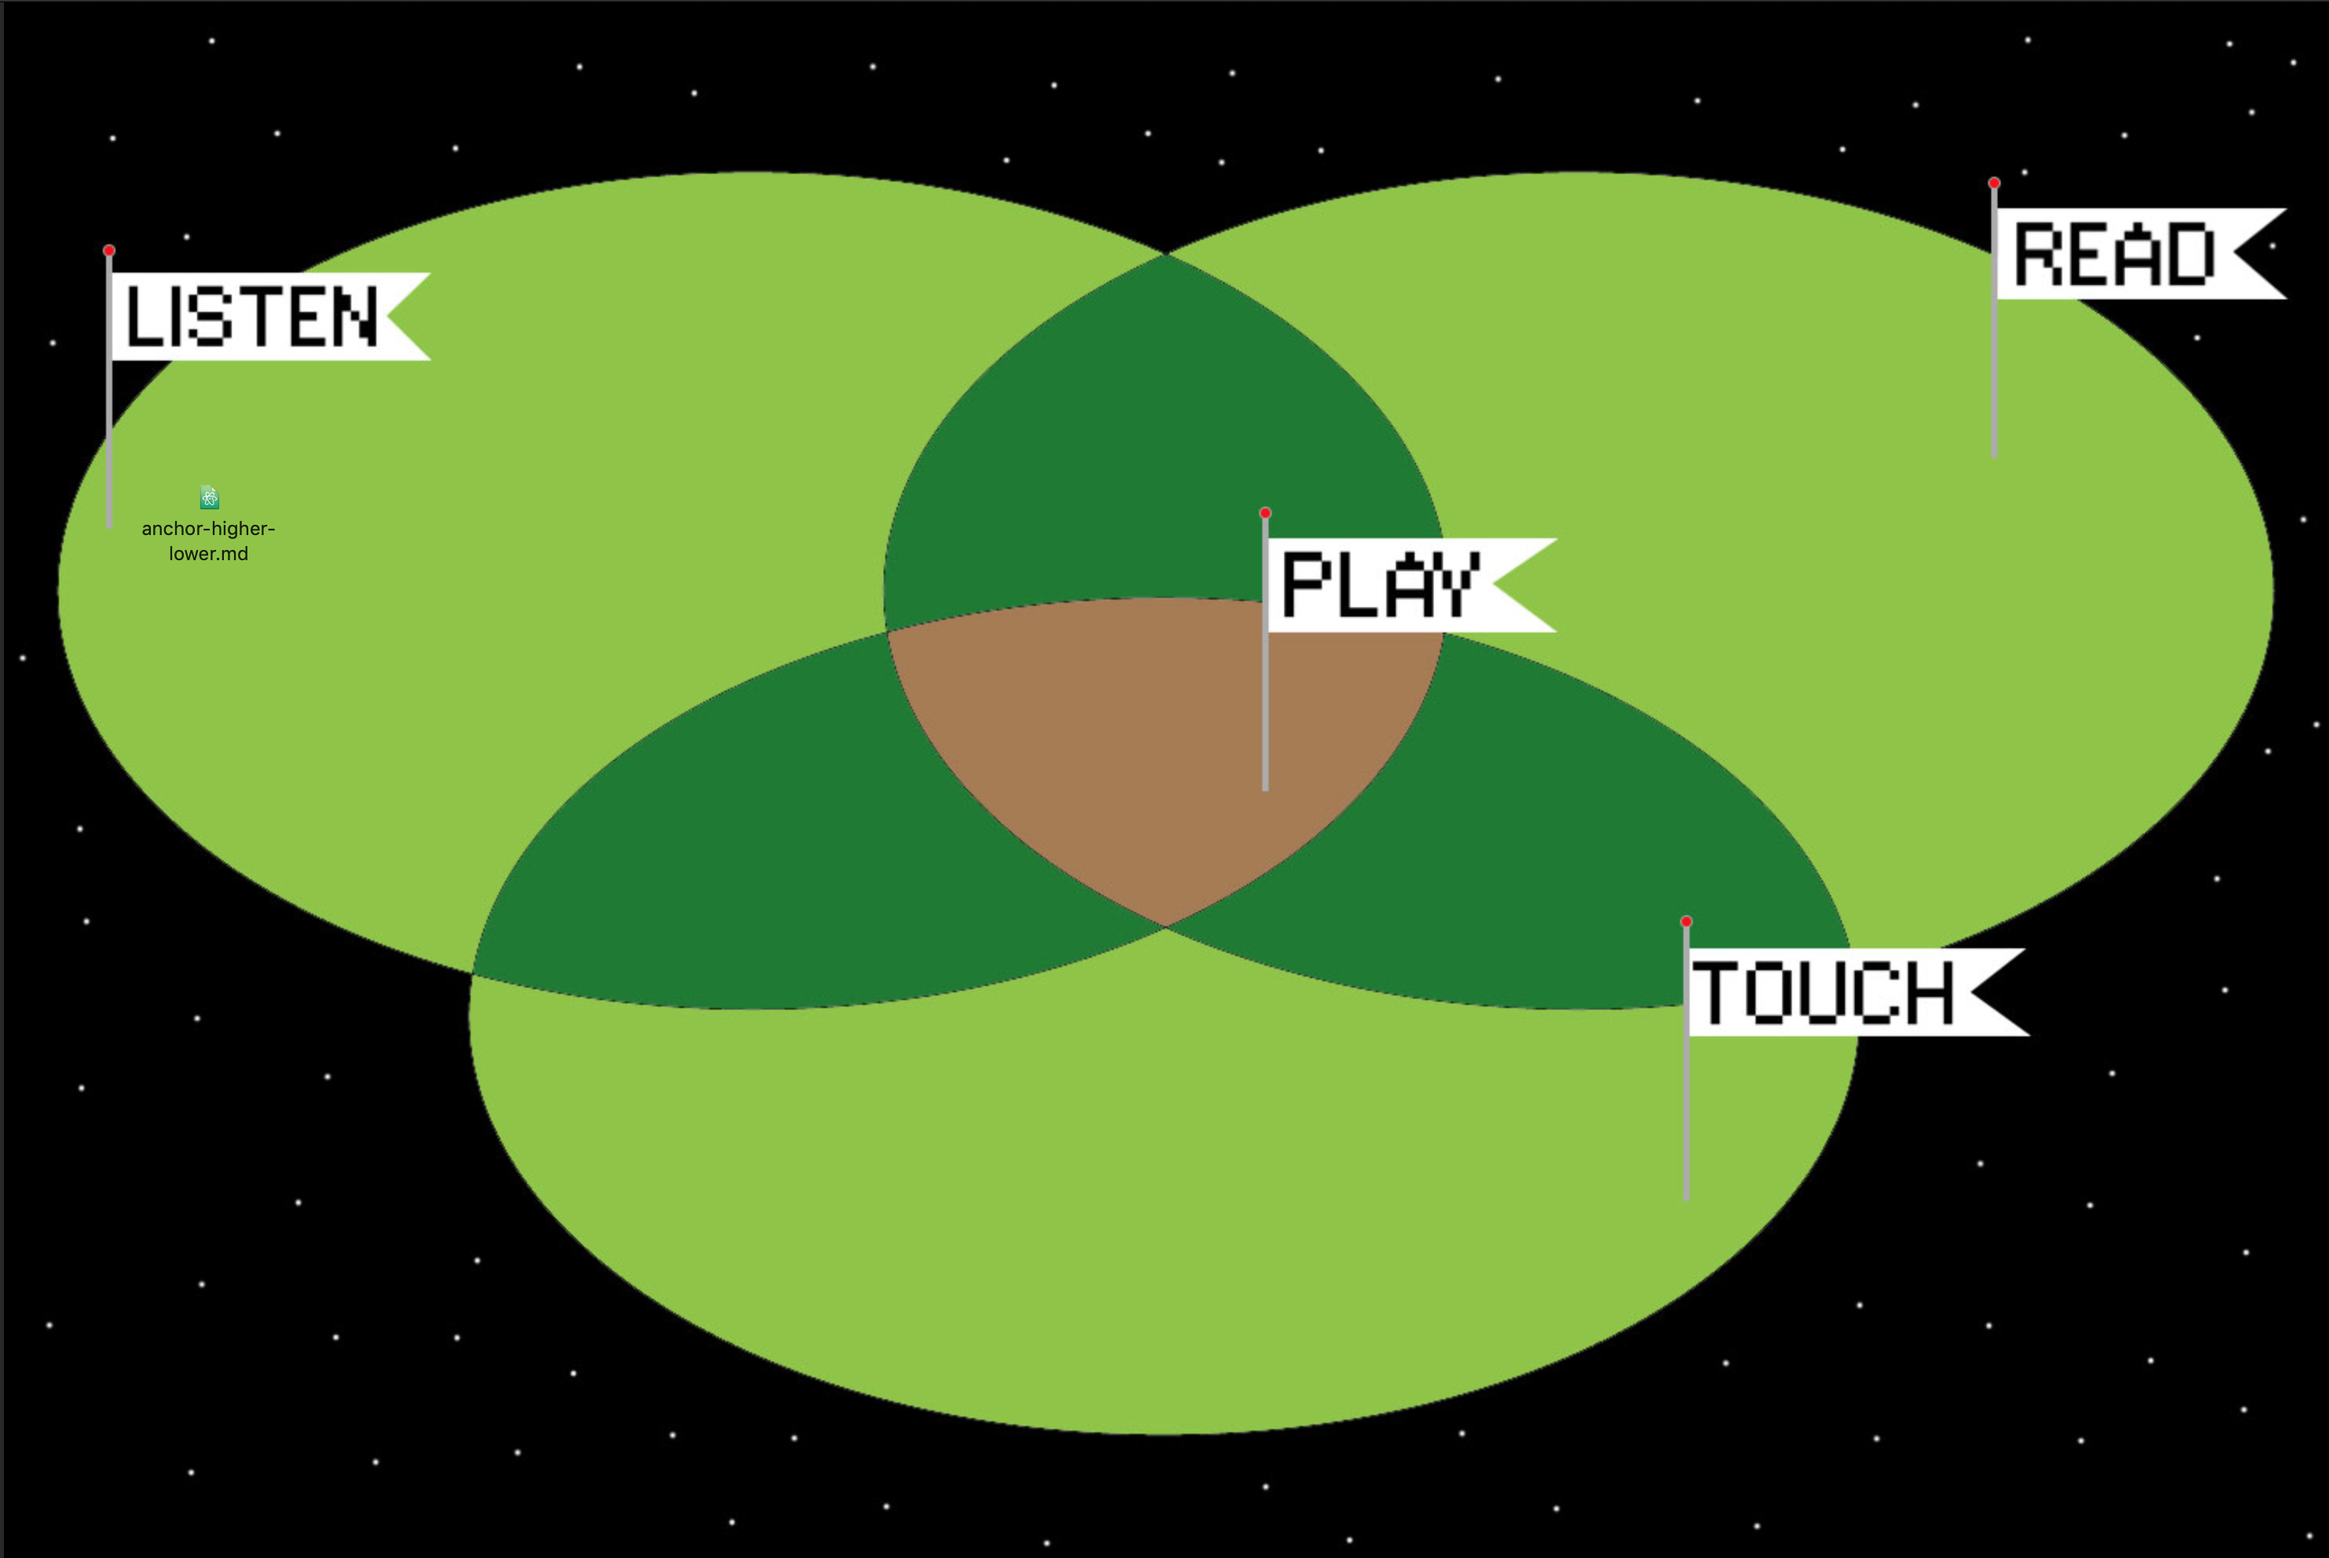
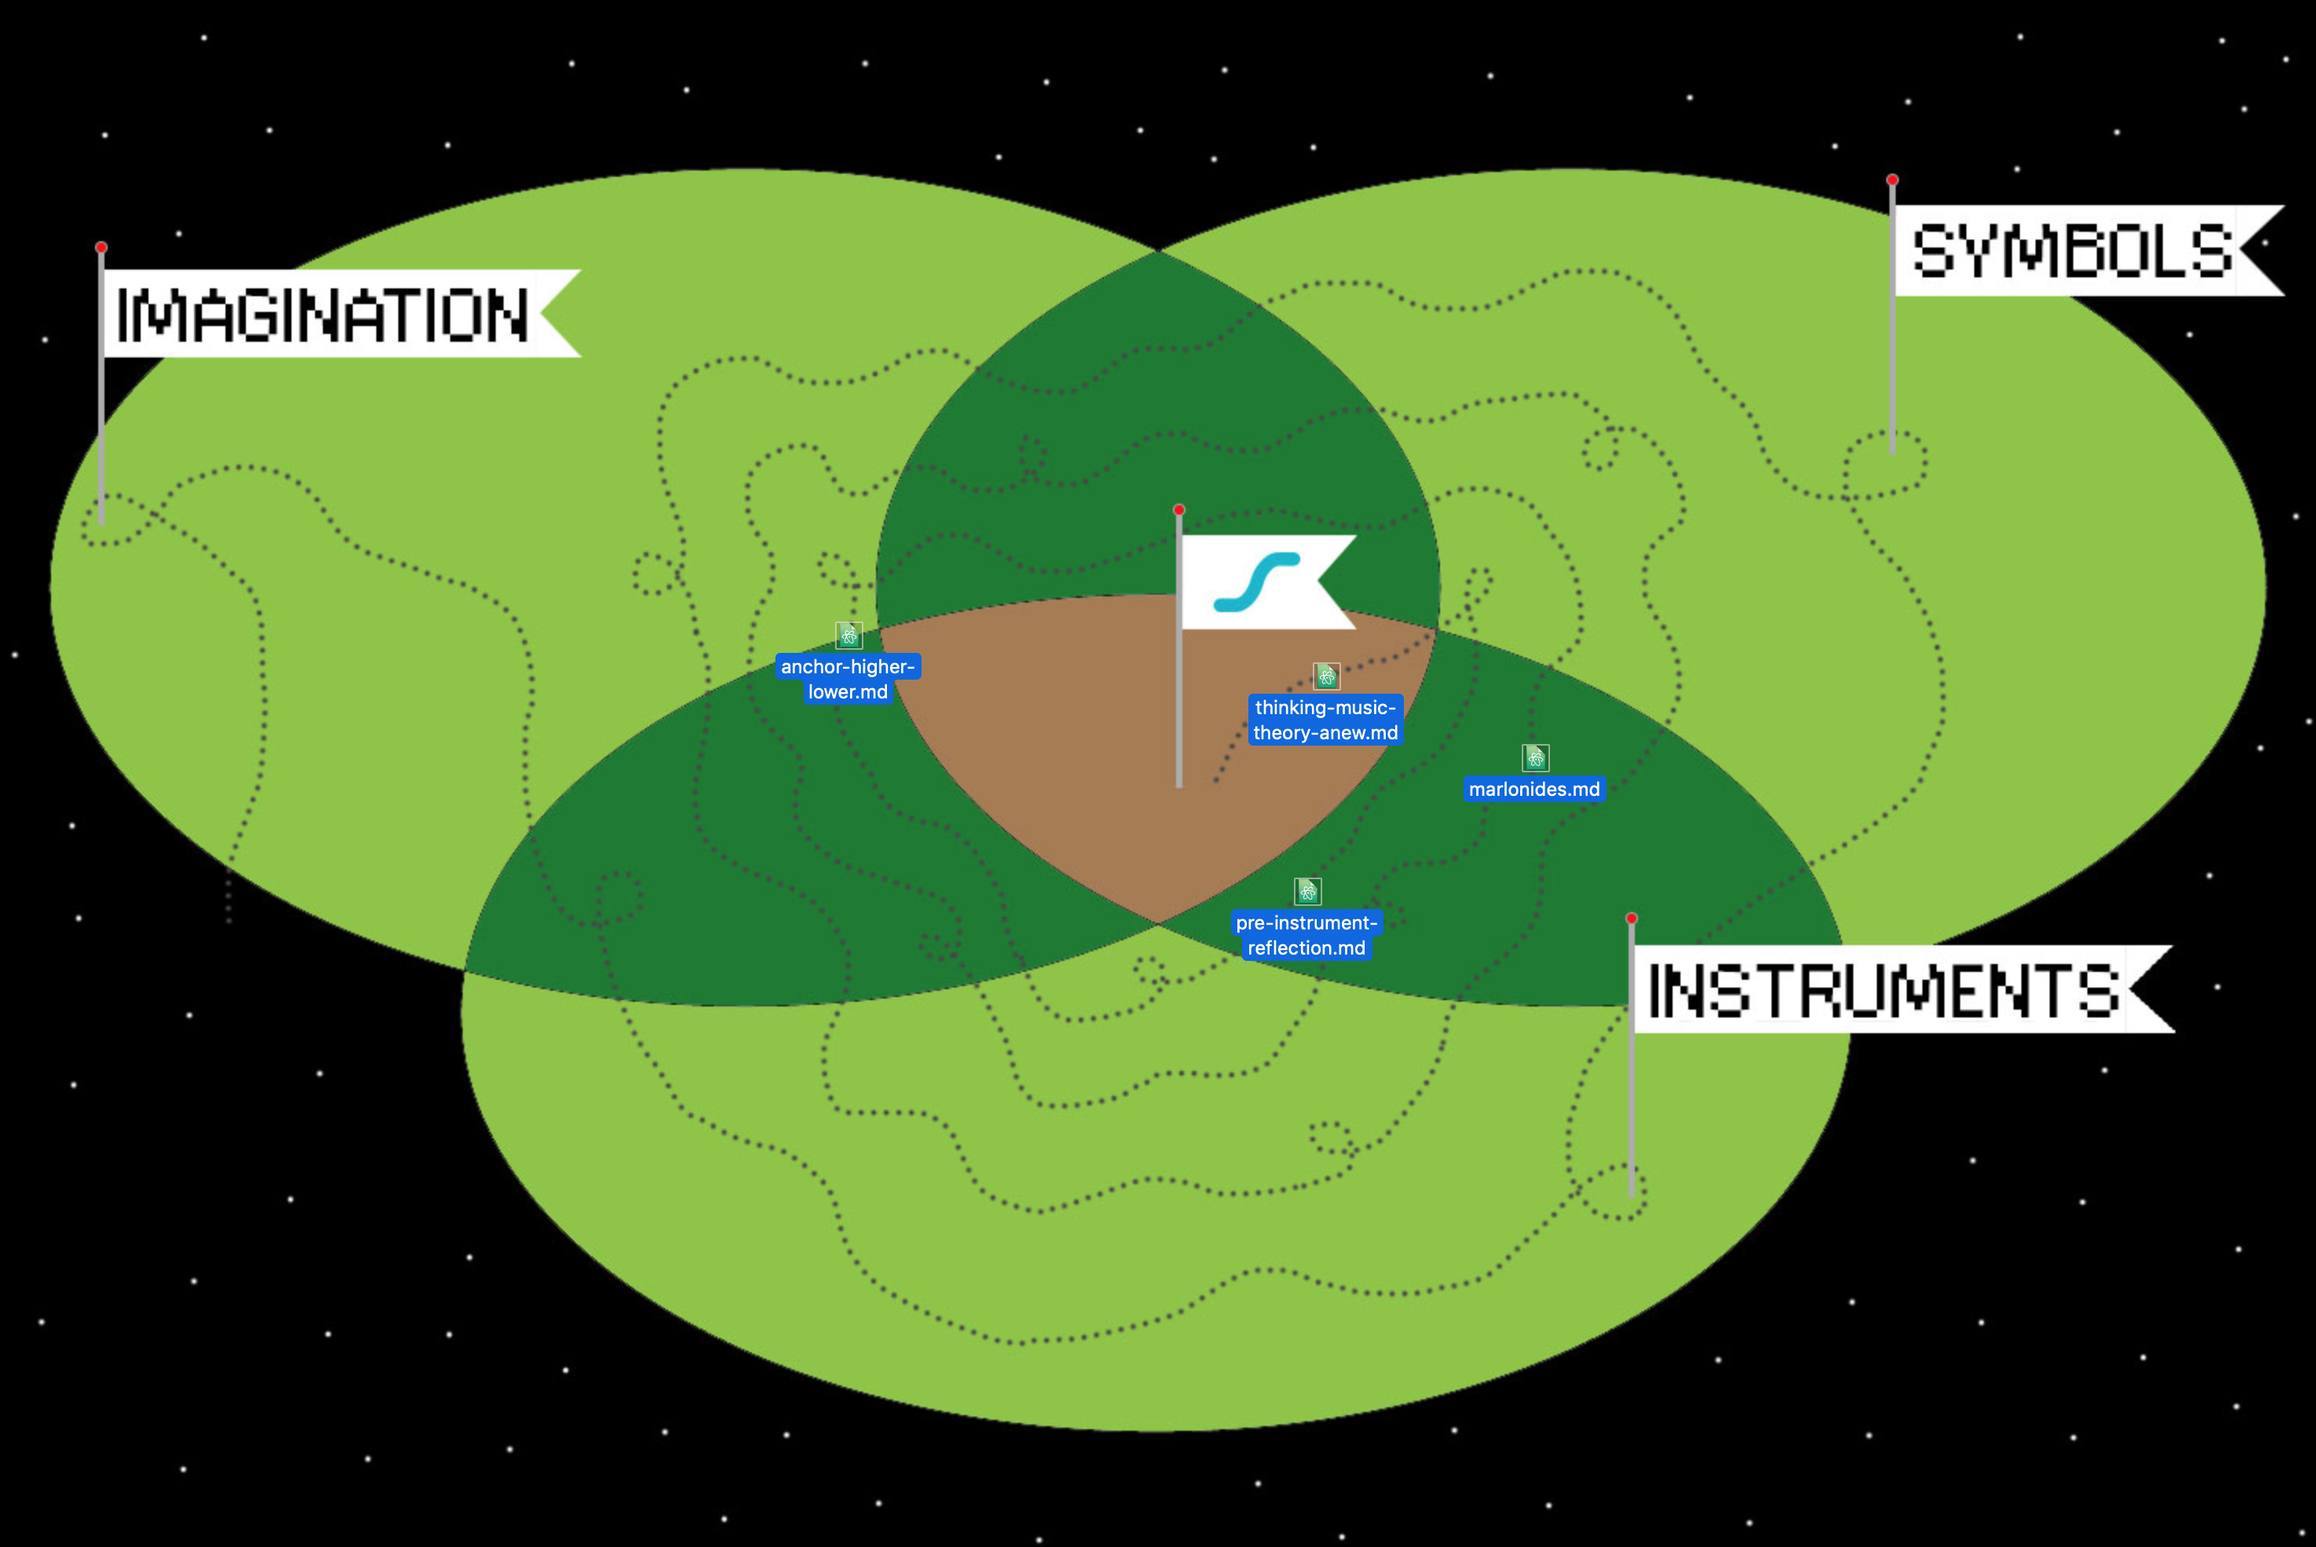
Update README

diff --git a/README.md b/README.md
@@ -1,1 +1,13 @@
+## Shapes
+*Thinking Music Theory Anew*
+
 ![shapes world map](map/map.png)
+
+### A Path
+The following path is not the only path through this world, nor is it the shortest path. It winds again and again through the lands of Symbols, of Instruments, and of Imagination, where finally, it falls clear off the edge of this world, so that you will have to go and discover another world. Thus forewarned, you may wish to find your own path, in which case, you've come to the right world.
+
+- [Introduction: Thinking Music Theory Anew](world/thinking-music-theory-anew.md)
+- Get to floating dots first (symbol)
+- Then map that to a keyboard (the central play experience, heading toward instruments)  
+- [Pre-instrument reflection](world/pre-instrument-reflection.md).
+-
